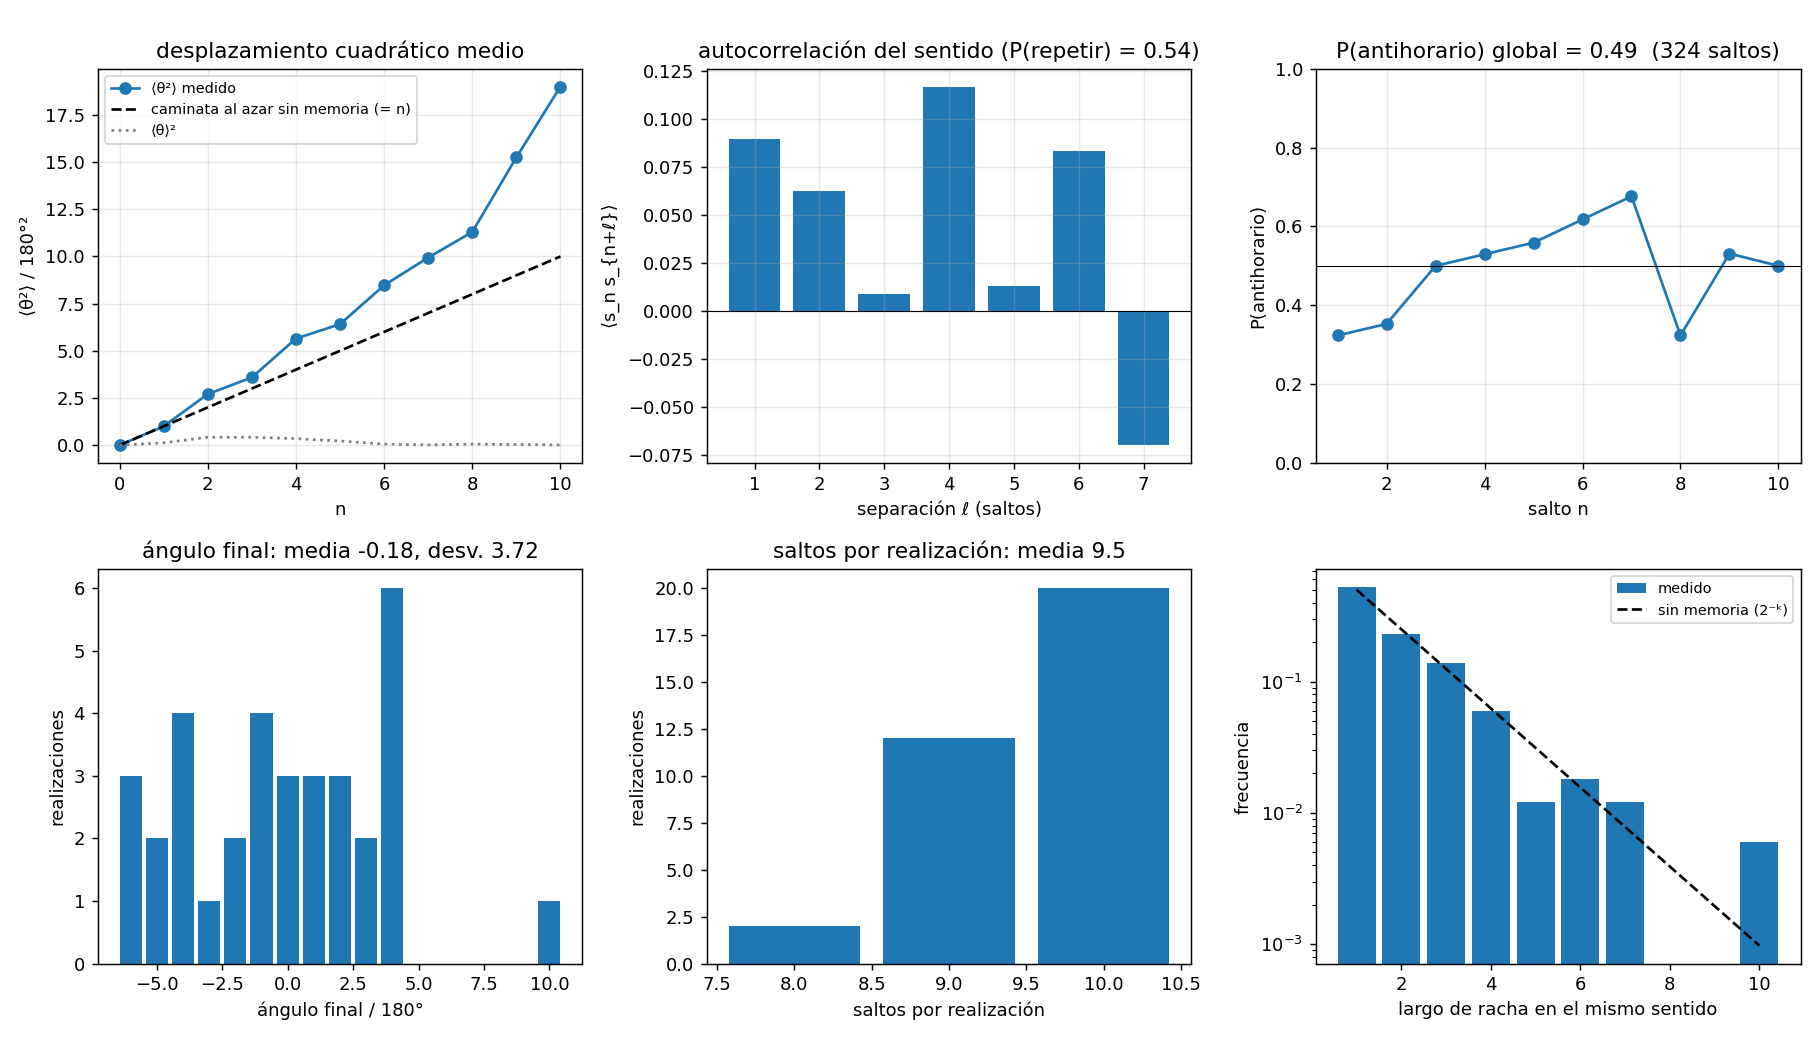
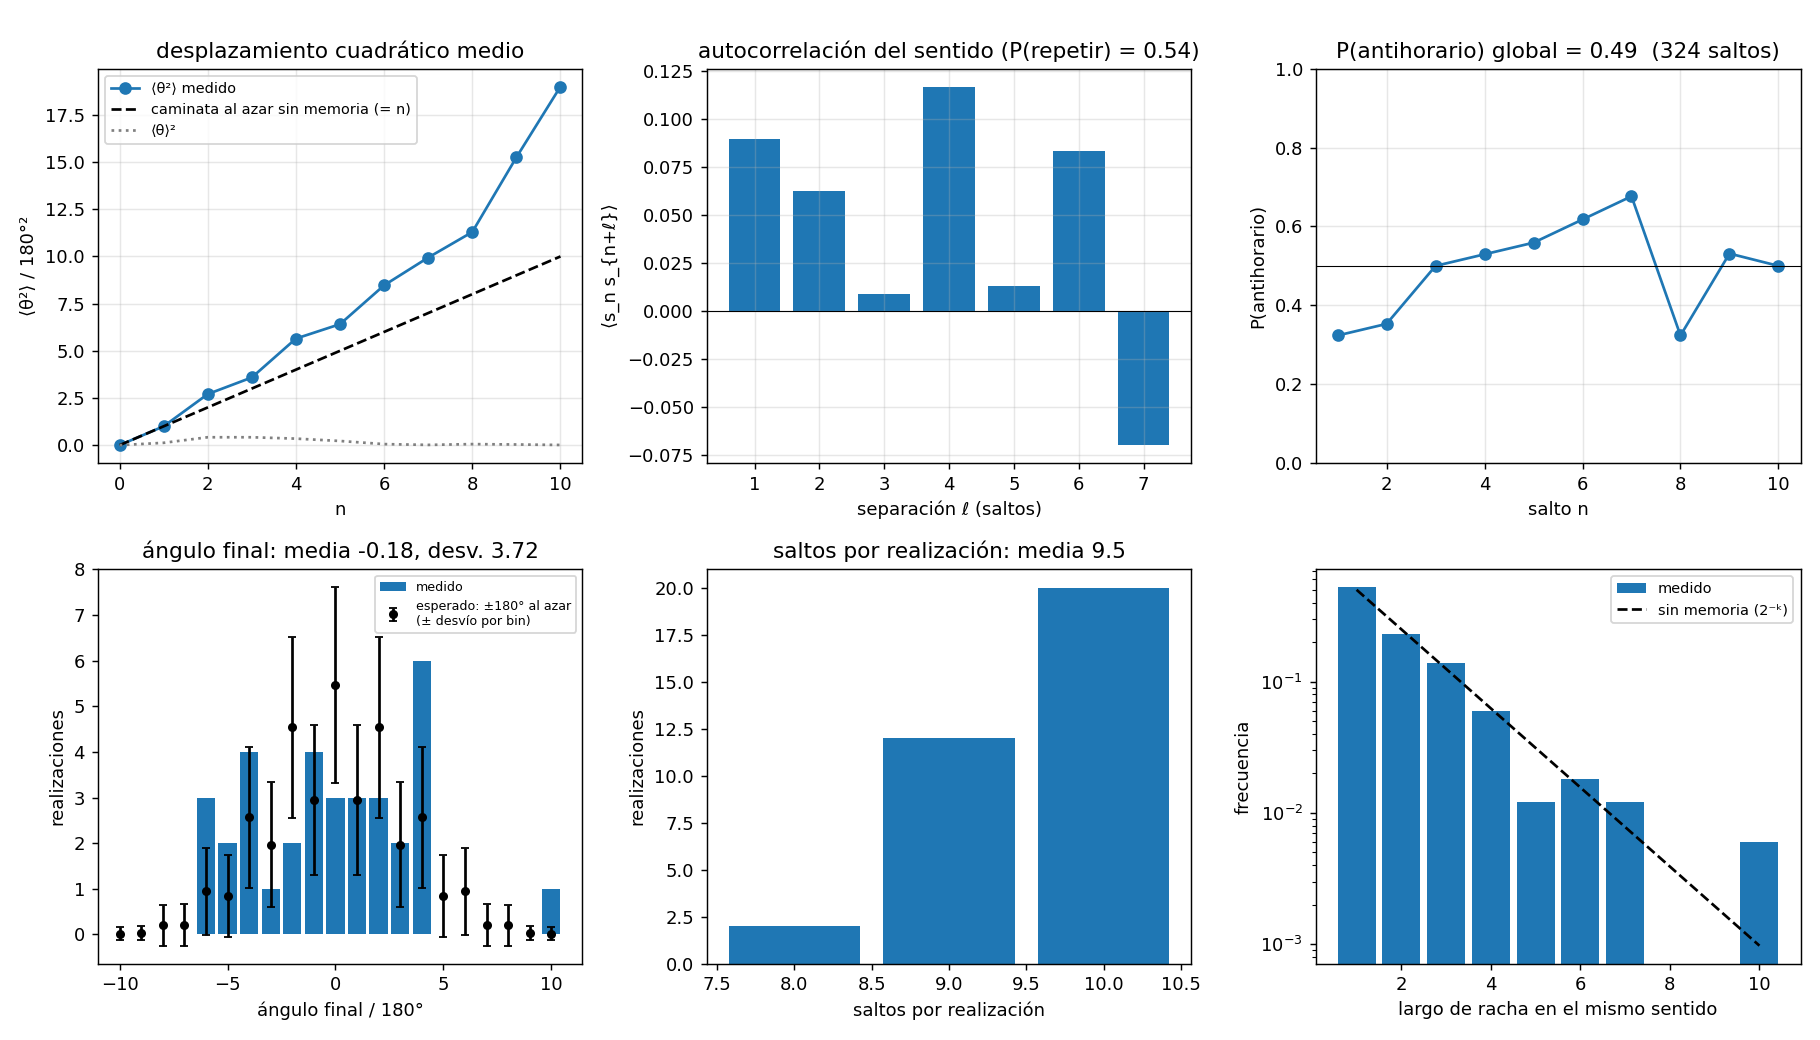
Distribución esperada del ángulo final (±180° al azar) superpuesta al histograma
Claude-Session: https://claude.ai/code/session_01MBLmMLmExsEPGD6ozCqqeg

Changed region(s): [[0.0615, 0.5538, 0.3077, 0.9538]]

diff --git a/analiza_muchas.py b/analiza_muchas.py
@@ -314,7 +314,21 @@ def pass2(c, real, suf="", titulo=""):
     a.grid(alpha=0.3)
     a = axs[1, 0]
     bins = np.arange(finals.min() - 1.5, finals.max() + 2.5, 2) if len(finals) else 10
-    a.hist(finals, bins=np.arange(np.floor(finals.min()) - 0.5, np.ceil(finals.max()) + 1.5, 1), rwidth=0.85)
+    a.hist(finals, bins=np.arange(np.floor(finals.min()) - 0.5, np.ceil(finals.max()) + 1.5, 1), rwidth=0.85,
+           label="medido")
+    # esperado con giros de ±180° al azar e independientes: suma de binomiales, una por
+    # realización con su propio número de saltos (respeta la paridad de θ_f/180 con n)
+    from math import comb
+    xm = np.arange(-nj.max(), nj.max() + 1)
+    expct = np.zeros(len(xm))
+    for n_ in nj:
+        for k_ in range(n_ + 1):
+            expct[2 * k_ - n_ + nj.max()] += comb(n_, k_) / 2 ** n_
+    sd = np.sqrt(expct * (1 - expct / len(nj)))
+    keep = expct > 1e-3
+    a.errorbar(xm[keep], expct[keep], yerr=sd[keep], fmt="o", color="k", ms=4, capsize=2,
+               label="esperado: ±180° al azar\n(± desvío por bin)")
+    a.legend(fontsize=7)
     a.set_xlabel("ángulo final / 180°"); a.set_ylabel("realizaciones")
     a.set_title(f"ángulo final: media {finals.mean():+.2f}, desv. {finals.std():.2f}")
     a = axs[1, 1]
